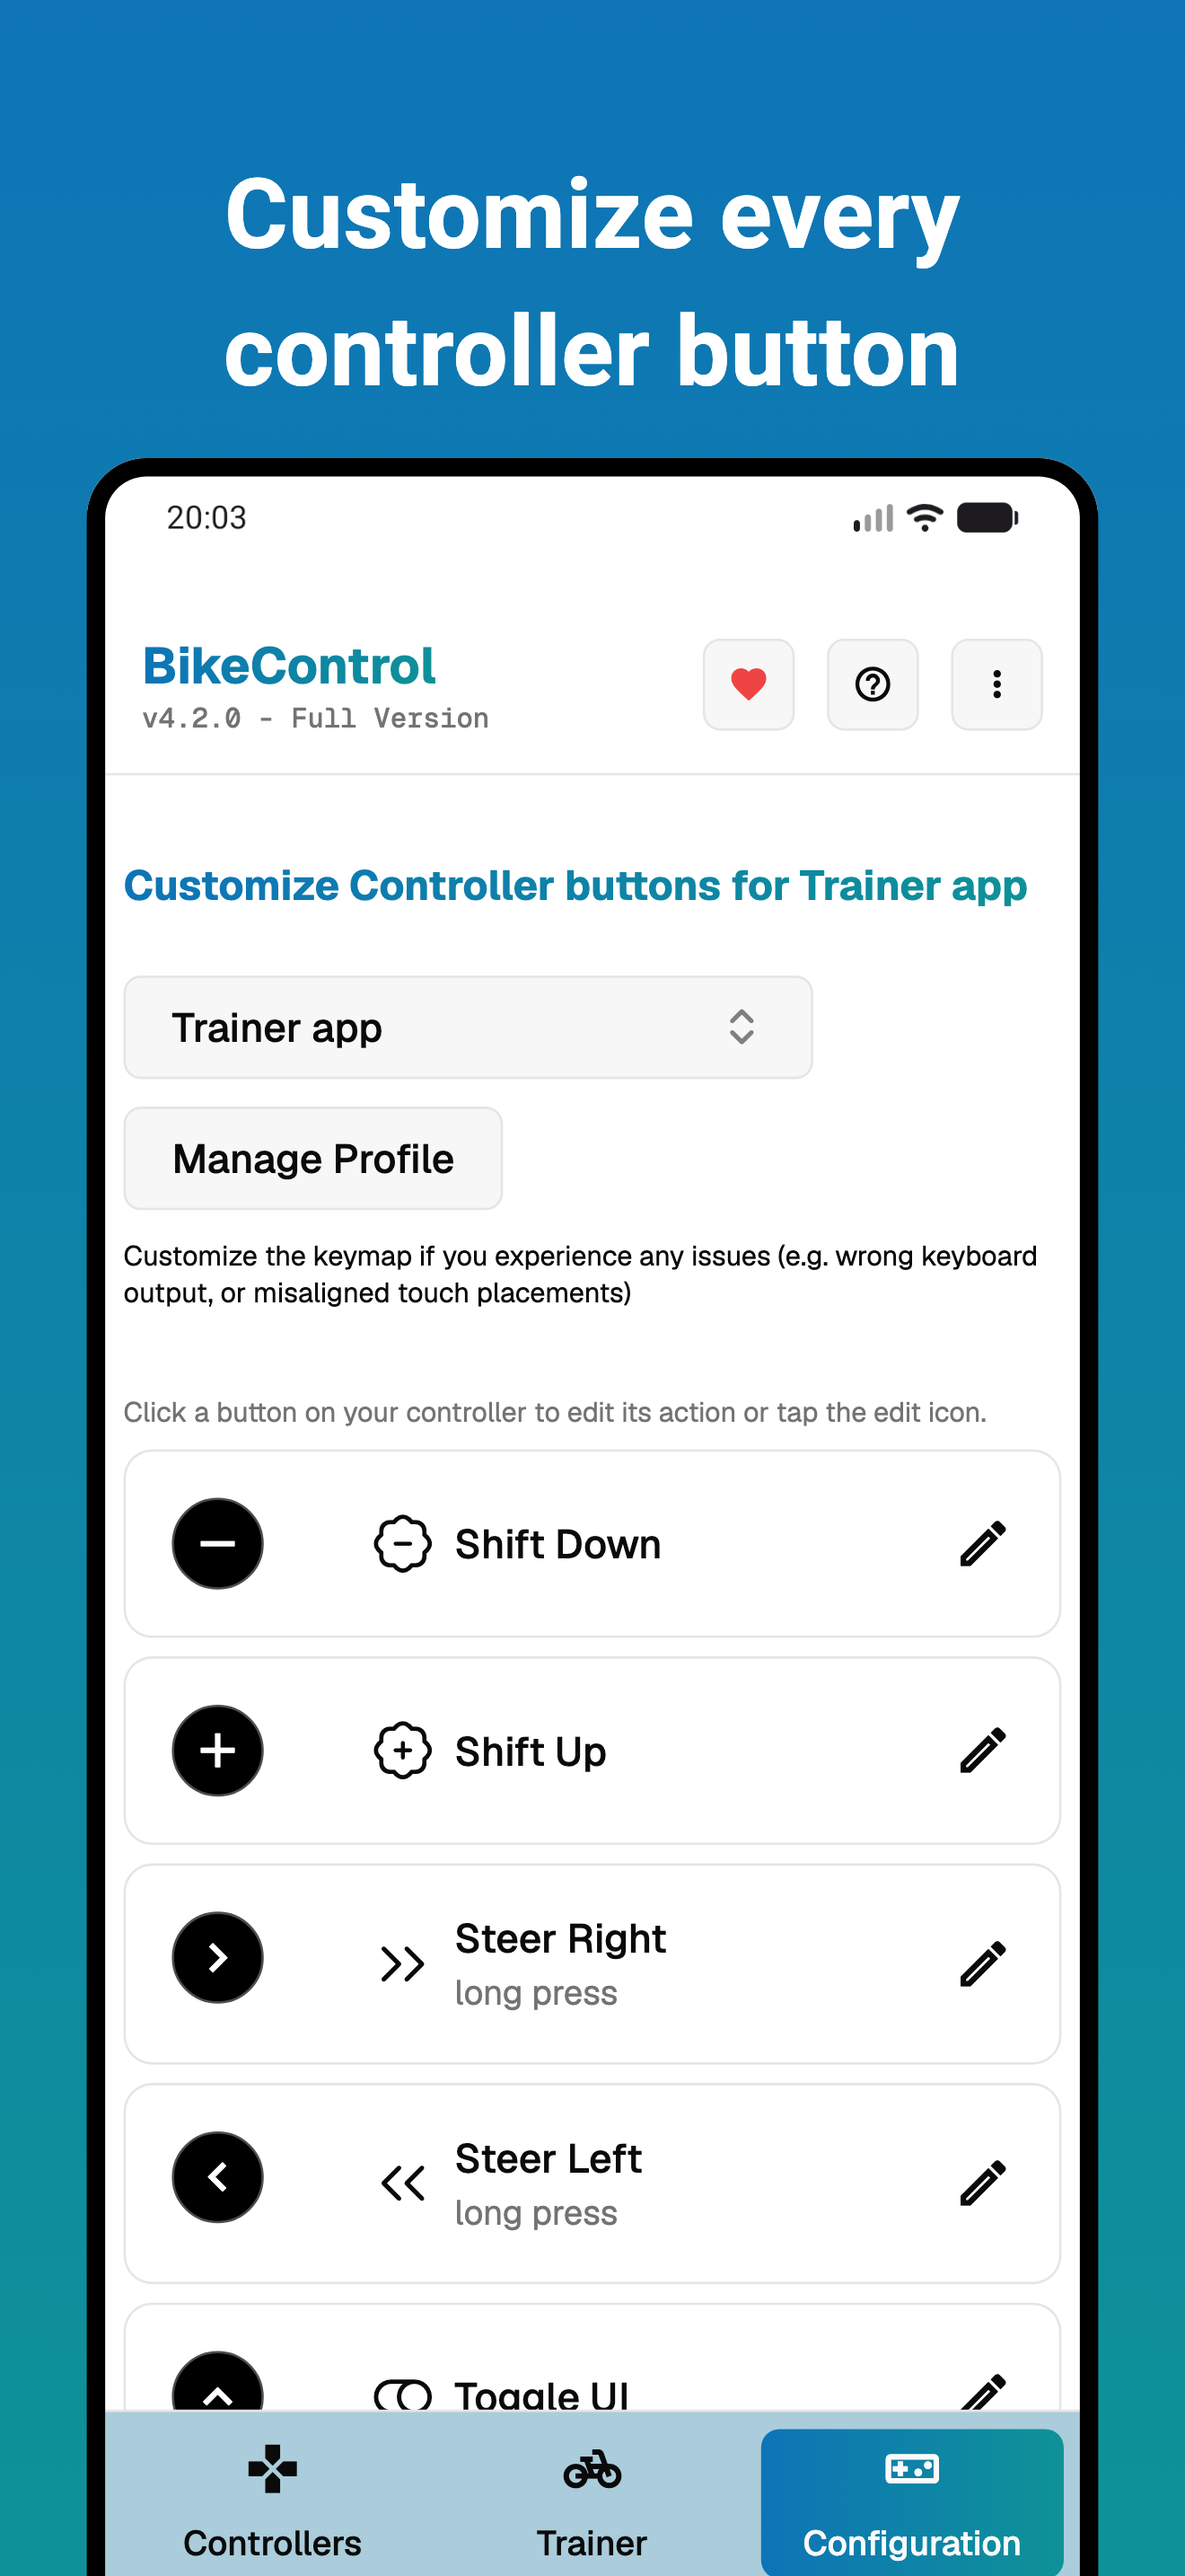
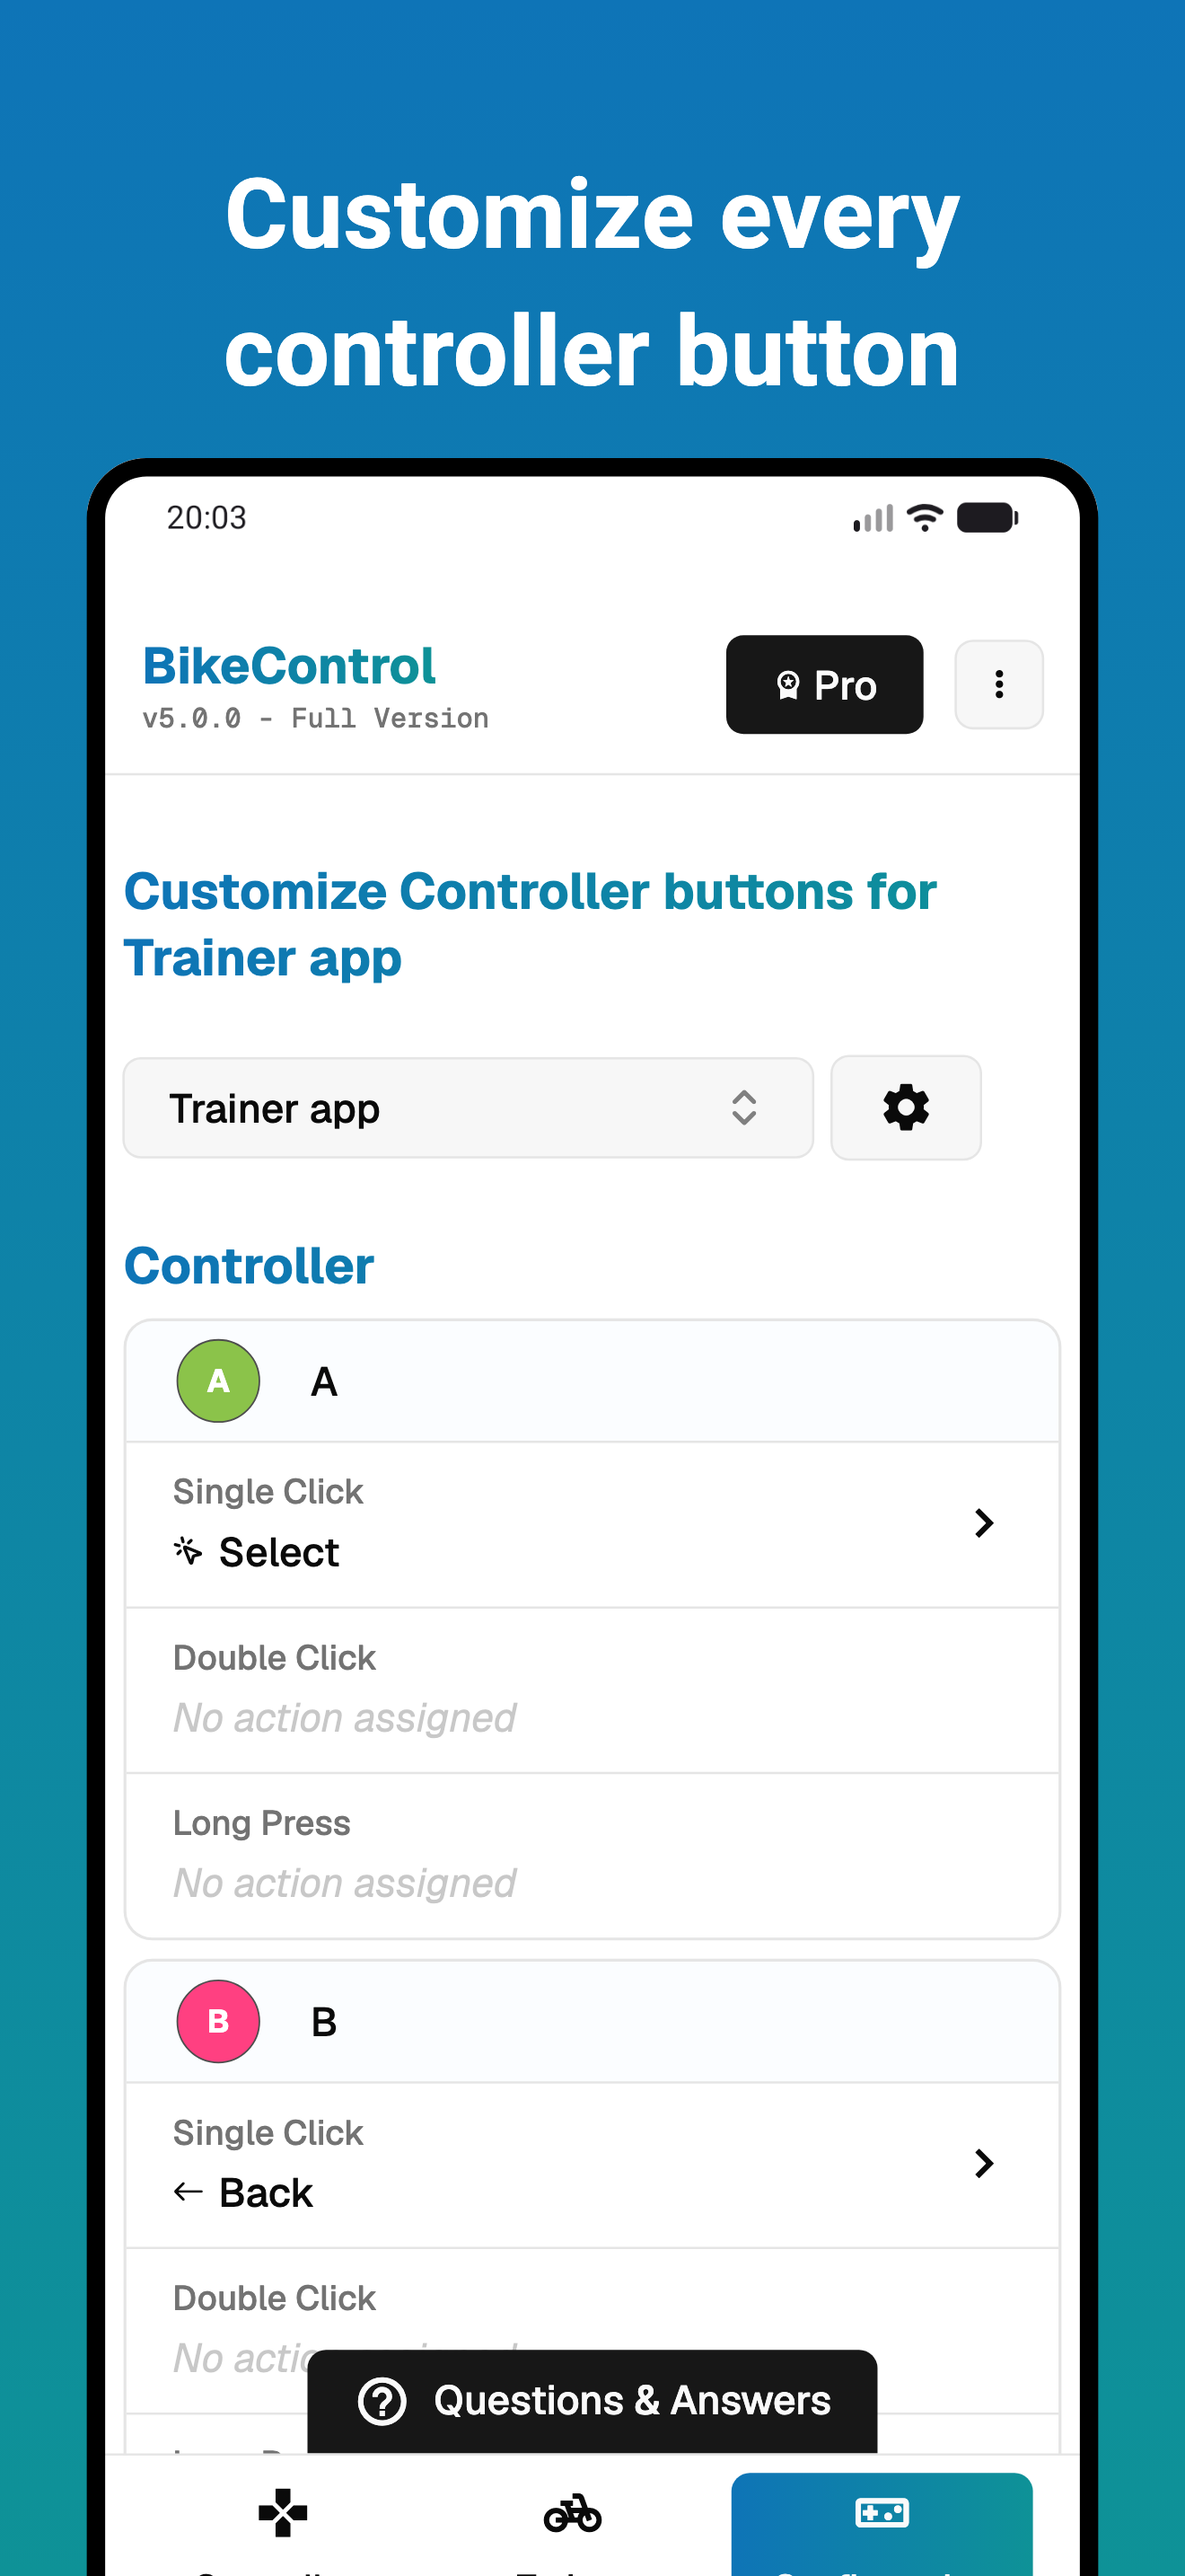
login with facebook, UI fixes

diff --git a/test/screenshot_test.dart b/test/screenshot_test.dart
@@ -32,13 +32,13 @@ Future<void> main() async {
   PackageInfo.setMockInitialValues(
     appName: 'BikeControl',
     packageName: 'de.jonasbark.swiftcontrol',
-    version: '4.2.0',
+    version: '5.0.0',
     buildNumber: '1',
     buildSignature: '',
   );
-  IAPManager.instance.isPurchased.value = true;
   FlutterSecureStorage.setMockInitialValues({});
   SharedPreferences.setMockInitialValues({});
+  IAPManager.instance.isPurchased.value = true;
 
   screenshotMode = true;
 
@@ -77,6 +77,7 @@ Future<void> main() async {
 
   testGoldens('Init', (WidgetTester tester) async {
     screenshotMode = true;
+    IAPManager.instance.isPurchased.value = true;
     await tester.loadAssets();
     for (final size in sizes) {
       await tester.pumpWidget(
@@ -108,6 +109,7 @@ Future<void> main() async {
     }
   });
   testGoldens('Device', (WidgetTester tester) async {
+    IAPManager.instance.isPurchased.value = true;
     for (final size in sizes) {
       await tester.pumpWidget(
         ScreenshotApp(
@@ -123,7 +125,7 @@ Future<void> main() async {
                   required Widget child,
                 }) => CustomFrame(
                   platform: size.type,
-                  title: 'Control your favorite trainer app using ANY controller',
+                  title: 'Control your trainer app using ANY controller',
                   device: device,
                   child: child,
                 ),
@@ -145,6 +147,7 @@ Future<void> main() async {
   });
 
   testGoldens('Trainer', (WidgetTester tester) async {
+    IAPManager.instance.isPurchased.value = true;
     screenshotMode = true;
     for (final size in sizes) {
       await tester.pumpWidget(
@@ -183,6 +186,7 @@ Future<void> main() async {
   });
 
   testGoldens('Customization', (WidgetTester tester) async {
+    IAPManager.instance.isPurchased.value = true;
     screenshotMode = true;
 
     for (final size in sizes) {
@@ -222,6 +226,7 @@ Future<void> main() async {
   });
 
   testGoldens('Trainer Controls', (WidgetTester tester) async {
+    IAPManager.instance.isPurchased.value = true;
     screenshotMode = true;
 
     core.settings.setMyWhooshLinkEnabled(true);

diff --git a/lib/widgets/menu.dart b/lib/widgets/menu.dart
@@ -47,8 +47,8 @@ List<Widget> buildMenuButtons(BuildContext context, BCPage currentPage, VoidCall
       },
     ),
 
-    Gap(8),
-    if (IAPManager.instance.isPurchased.value || IAPManager.instance.isProEnabled)
+    if (openLogs == null && (IAPManager.instance.isPurchased.value || IAPManager.instance.isProEnabled)) ...[
+      Gap(8),
       Builder(
         builder: (context) {
           return OutlineButton(
@@ -83,6 +83,7 @@ List<Widget> buildMenuButtons(BuildContext context, BCPage currentPage, VoidCall
           );
         },
       ),
+    ],
     Gap(4),
 
     BKMenuButton(openLogs: openLogs, currentPage: currentPage),
@@ -188,6 +189,20 @@ class BKMenuButton extends StatelessWidget {
               ),
               MenuDivider(),
             ],
+            if (openLogs != null)
+              MenuButton(
+                leading: Icon(Icons.star_rate),
+                child: Text(context.i18n.leaveAReview),
+                onPressed: (c) async {
+                  final InAppReview inAppReview = InAppReview.instance;
+
+                  if (await inAppReview.isAvailable()) {
+                    inAppReview.requestReview();
+                  } else {
+                    inAppReview.openStoreListing(appStoreId: 'id6753721284', microsoftStoreId: '9NP42GS03Z26');
+                  }
+                },
+              ),
             if (openLogs != null)
               MenuButton(
                 leading: Icon(Icons.article_outlined),

diff --git a/lib/pages/subscriptions/login.dart b/lib/pages/subscriptions/login.dart
@@ -87,6 +87,11 @@ class _LoginPageState extends State<LoginPage> {
                   Buttons.gitHub,
                   onPressed: _signInWithGithub,
                 ),
+                if (kDebugMode) // TODO reactivate when Facebook has reviewed
+                  SignInButton(
+                    Buttons.facebook,
+                    onPressed: _signInWithFacebook,
+                  ),
               ],
             ),
           ),
@@ -250,6 +255,14 @@ class _LoginPageState extends State<LoginPage> {
   Future<void> _signInWithGithub() async {
     await core.supabase.auth.signInWithOAuth(
       OAuthProvider.github,
+      redirectTo: kIsWeb ? null : 'bikecontrol://login/',
+      authScreenLaunchMode: kIsWeb ? LaunchMode.platformDefault : LaunchMode.externalApplication,
+    );
+  }
+
+  Future<void> _signInWithFacebook() async {
+    await core.supabase.auth.signInWithOAuth(
+      OAuthProvider.facebook,
       redirectTo: kIsWeb ? null : 'bikecontrol://login/',
       authScreenLaunchMode: kIsWeb ? LaunchMode.platformDefault : LaunchMode.externalApplication,
     );

diff --git a/lib/widgets/keymap_explanation.dart b/lib/widgets/keymap_explanation.dart
@@ -2,6 +2,7 @@ import 'dart:async';
 
 import 'package:bike_control/bluetooth/devices/base_device.dart';
 import 'package:bike_control/gen/l10n.dart';
+import 'package:bike_control/main.dart';
 import 'package:bike_control/pages/button_edit.dart';
 import 'package:bike_control/utils/core.dart';
 import 'package:bike_control/utils/i18n_extension.dart';
@@ -108,7 +109,7 @@ class _KeymapExplanationState extends State<KeymapExplanation> {
       crossAxisAlignment: CrossAxisAlignment.stretch,
       spacing: 8,
       children: [
-        if (core.connection.controllerDevices.isNotEmpty)
+        if (core.connection.controllerDevices.isNotEmpty && !screenshotMode)
           Text(
             AppLocalizations.of(context).clickAButtonOnYourController,
             style: TextStyle(fontSize: 12),

diff --git a/lib/pages/customize.dart b/lib/pages/customize.dart
@@ -137,12 +137,12 @@ class _CustomizeState extends State<CustomizePage> {
             ],
           ),
 
-          if (core.actionHandler.supportedApp is! CustomApp)
+          if (core.actionHandler.supportedApp is! CustomApp && !screenshotMode)
             Text(
               context.i18n.customizeKeymapHint,
               style: TextStyle(fontSize: 12),
             ),
-          Gap(12),
+          if (!screenshotMode) Gap(12),
           if (core.actionHandler.supportedApp != null && core.connection.controllerDevices.isNotEmpty)
             KeymapExplanation(
               key: Key(core.actionHandler.supportedApp!.keymap.runtimeType.toString()),

diff --git a/lib/utils/settings/settings.dart b/lib/utils/settings/settings.dart
@@ -33,10 +33,12 @@ class Settings {
     try {
       prefs = await SharedPreferences.getInstance();
       propPrefs.initialize(prefs);
-      try {
-        await NotificationRequirement.setup();
-      } catch (error, stack) {
-        recordError(error, stack, context: 'Notification setup');
+      if (!screenshotMode) {
+        try {
+          await NotificationRequirement.setup();
+        } catch (error, stack) {
+          recordError(error, stack, context: 'Notification setup');
+        }
       }
       initializeActions(getLastTarget()?.connectionType ?? ConnectionType.unknown);
 

diff --git a/lib/main.dart b/lib/main.dart
@@ -289,7 +289,7 @@ class _StarterState extends State<_Starter> with WidgetsBindingObserver {
 
     core.connection.initialize();
     WidgetsBinding.instance.addObserver(this);
-    if (!kIsWeb) {
+    if (!kIsWeb && !screenshotMode) {
       // It will handle app links while the app is already started - be it in
       // the foreground or in the background.
       _deeplinkSubscription = _appLinks.uriLinkStream.listen(

diff --git a/TROUBLESHOOTING.md b/TROUBLESHOOTING.md
@@ -16,13 +16,19 @@ You may need to update the firmware in Zwift Companion app.
 To make your Click V2 work best you should connect it in the Zwift app once before a workout session.
 If you don't do that BikeControl will need to reconnect every minute.
 
+You have two possibilities:
+# BikeControl method
+Click on the "Unlock" button in BikeControl in the Devices tab, then follow on-screen instructions:
+[https://youtube.com/shorts/bSQKnpHnWCo?feature=share](https://youtube.com/shorts/bSQKnpHnWCo?feature=share)
+
+# Manual method
 1. Open Zwift app (not the Companion)
 2. Log in (subscription not required) → device connection screen
 3. Connect trainer, then connect Click v2
 4. Keep it connected for ~10–30 seconds
 5. Close Zwift completely, then connect in BikeControl
 
-Details/updates: https://github.com/OpenBikeControl/bikecontrol/issues/68
+Details/updates: [https://github.com/OpenBikeControl/bikecontrol/issues/68](GitHub issue)
 
 ## Android: Connection works, buttons work but nothing happens in MyWhoosh and similar
 *
